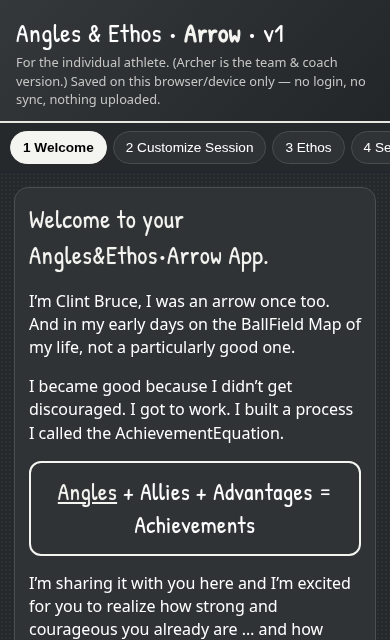
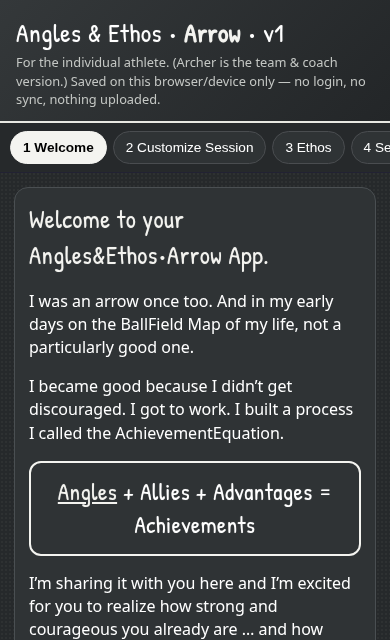
Welcome: drop name from first sentence

Changed region(s): [[0.0615, 0.4375, 0.9231, 0.5625]]

diff --git a/index.html b/index.html
@@ -89,7 +89,7 @@ function render(){
  $('#app').innerHTML=({welcome:vWelcome,session:vSession,ethos:vEthos,score:vScore,past:vPast})[S.tab]();
 }
 function vWelcome(){return `<div class="card"><h2>Welcome to your Angles&amp;Ethos•Arrow App.</h2>
-<p>I’m Clint Bruce, I was an arrow once too. And in my early days on the BallField Map of my life, not a particularly good one.</p>
+<p>I was an arrow once too. And in my early days on the BallField Map of my life, not a particularly good one.</p>
 <p>I became good because I didn’t get discouraged. I got to work. I built a process I called the AchievementEquation.</p>
 <div class="eq" id="eq"><span class="own">Angles</span> +&#8203; Allies +&#8203; Advantages = Achievements</div>
 <p>I’m sharing it with you here and I’m excited for you to realize how strong and courageous you already are … and how good you can be at this sport or craft that matters to you.</p>

diff --git a/test.py b/test.py
@@ -77,7 +77,7 @@ with sync_playwright() as p:
     pg.goto(url); pg.evaluate('localStorage.clear()'); pg.reload()
     assert pg.evaluate("document.body.classList.contains('chalk')")
     t=pg.inner_text('main')
-    assert 'I’m Clint Bruce, I was an arrow once too.' in t and 'football' not in t
+    assert 'I was an arrow once too.' in t and 'football' not in t
     assert pg.evaluate('document.documentElement.scrollWidth')<=vp['width']
     if vp['width']==390:
       pg.screenshot(path='shots/arrow-chalk-welcome.png',full_page=True); pg.locator('#colors').screenshot(path='shots/arrow-chalk-colors.png')
